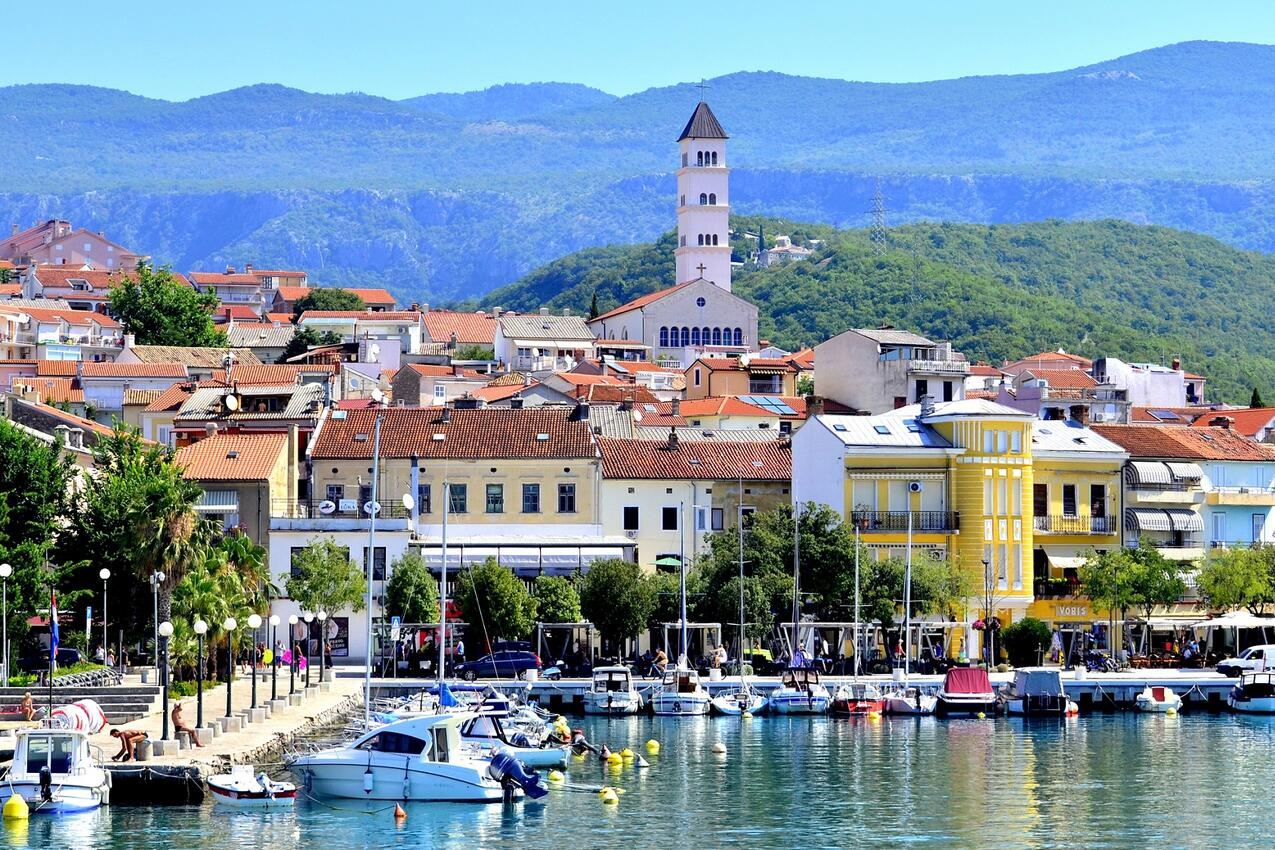
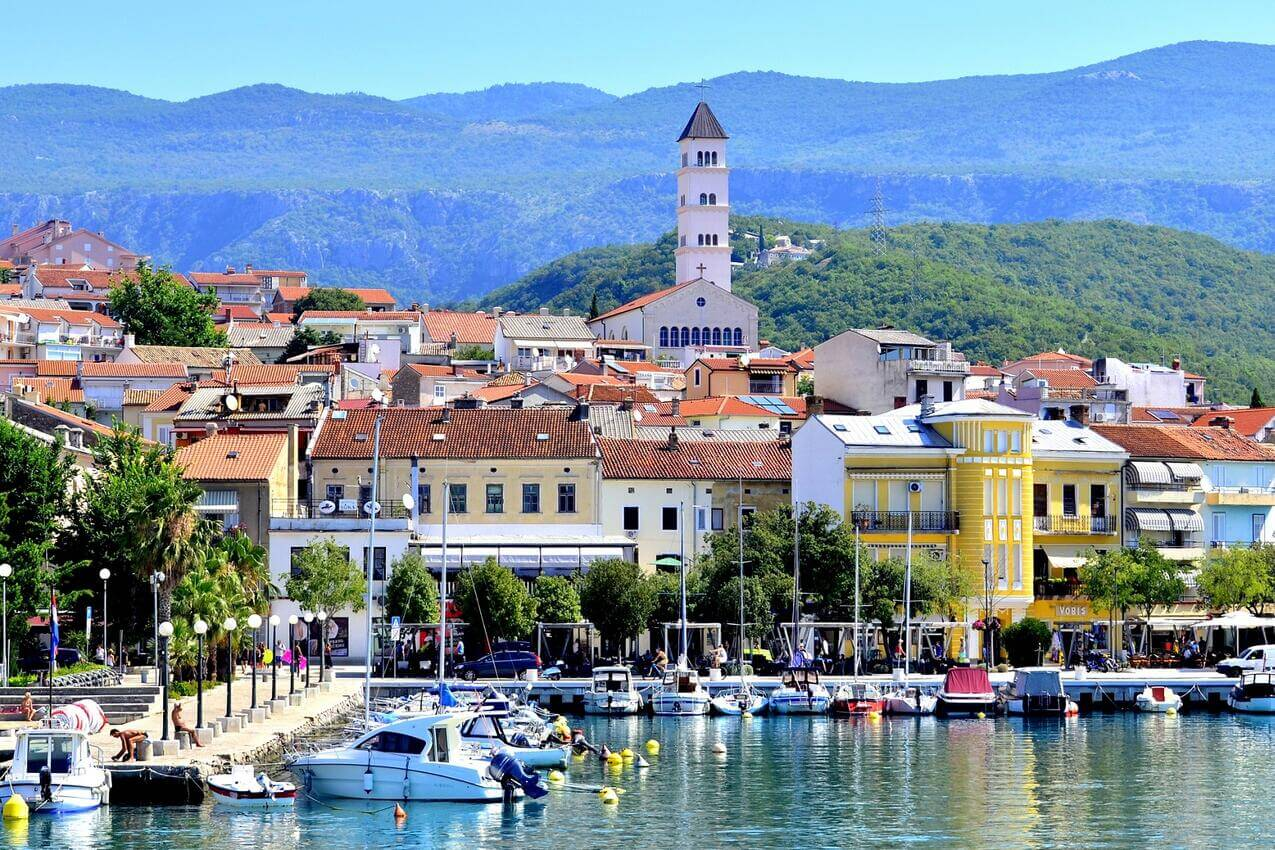
Image optimization

diff --git a/src/components/house/de/About.js b/src/components/house/de/About.js
@@ -16,8 +16,8 @@ export default function About() {
                 <Image 
                     src="/img/wir.jpg"
                     alt="Meine Lebensgefährtin und ich"
-                    width={2000}
-                    height={900}
+                    width={1000}
+                    height={450}
                     className="my-4 lg:w-2/3 p-2 shadow-lg border border-gray-300 dark:border-gray-700"
                 />
             </figure>

diff --git a/src/components/house/en/About.js b/src/components/house/en/About.js
@@ -16,8 +16,8 @@ export default function About() {
                 <Image
                     src="/img/wir.jpg"
                     alt="My significant other and me"
-                    width={2000}
-                    height={900}
+                    width={1000}
+                    height={450}
                     className="my-4 lg:w-2/3 p-2 shadow-lg border border-gray-300 dark:border-gray-700"
                 />
             </figure>

diff --git a/src/components/house/hr/About.js b/src/components/house/hr/About.js
@@ -16,8 +16,8 @@ export default function About() {
                 <Image
                     src="/img/wir.jpg"
                     alt="Moja draga i ja"
-                    width={2000}
-                    height={900}
+                    width={1000}
+                    height={450}
                     className="my-4 lg:w-2/3 p-2 shadow-lg border border-gray-300 dark:border-gray-700"
                 />
             </figure>
